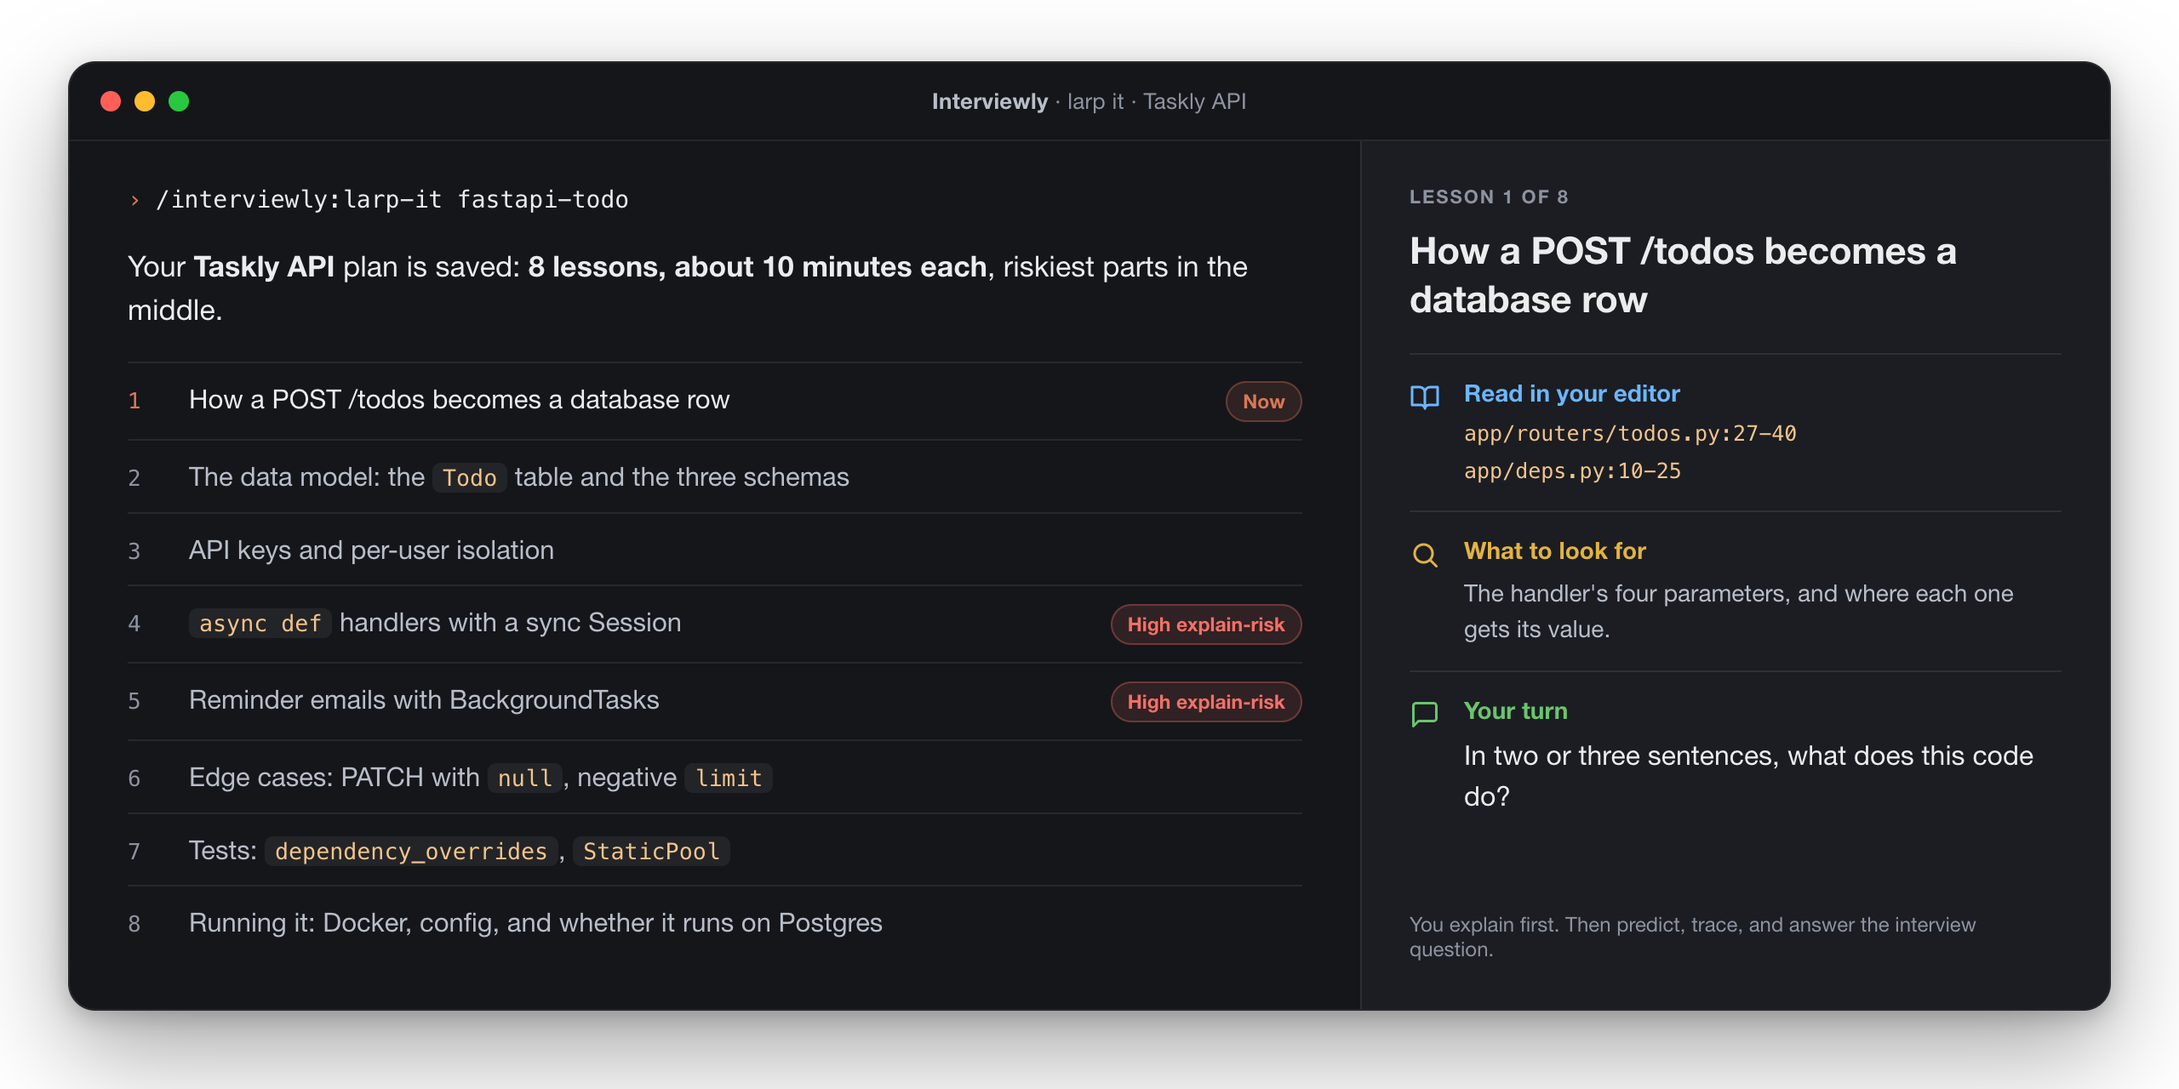
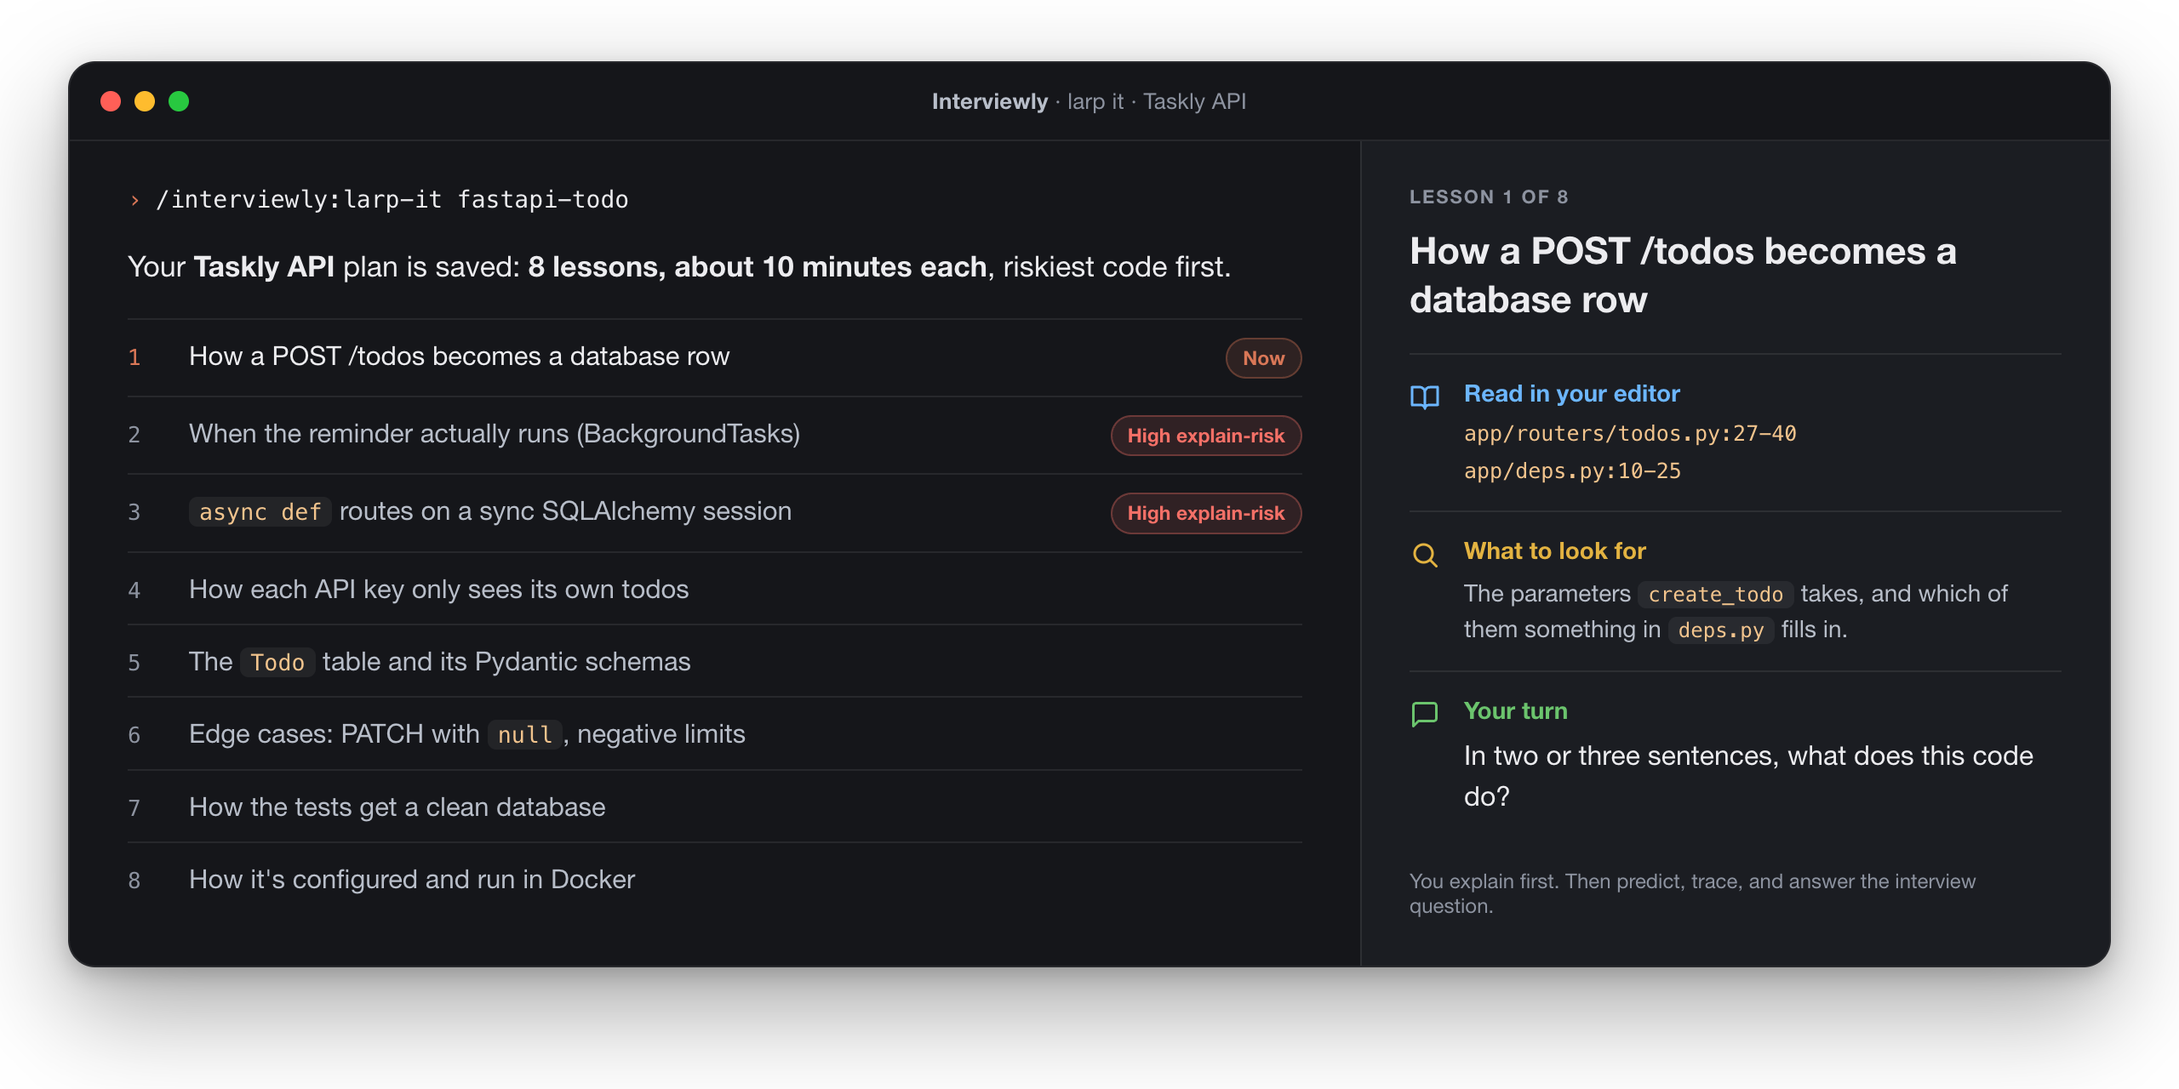
Follow-ups from the 0.10.0 eval run
The full suite ran on the 0.10.0 prompts: 31 of 32 cases passed first time.

- interview resume: one line on which interview is being picked up, and
  nothing about other sessions. The one failing run had offered to review
  a finished session before asking the open question again.
- setup doctor: the skill gives the exact health-check command and stops
  after explaining the report, instead of looking up how the helper is
  called and reading the plugin's own code. The eval takes 5 to 7 turns,
  down from 12 to 14.
- README: the larp-it image is re-rendered from a fresh run, so it shows
  the riskiest lessons straight after the first one.

diff --git a/docs/larp-it-card.html b/docs/larp-it-card.html
@@ -115,16 +115,16 @@
     <div class="body">
       <div class="plan">
         <div class="prompt"><span class="caret">›</span><span class="cmd">/interviewly:larp-it fastapi-todo</span></div>
-        <p class="lead">Your <b>Taskly API</b> plan is saved: <b>8 lessons, about 10 minutes each</b>, riskiest parts in the middle.</p>
+        <p class="lead">Your <b>Taskly API</b> plan is saved: <b>8 lessons, about 10 minutes each</b>, riskiest code first.</p>
         <ol>
           <li class="now"><span class="n">1</span><span>How a POST /todos becomes a database row</span><span class="tag now">Now</span></li>
-          <li><span class="n">2</span><span>The data model: the <code>Todo</code> table and the three schemas</span><span></span></li>
-          <li><span class="n">3</span><span>API keys and per-user isolation</span><span></span></li>
-          <li><span class="n">4</span><span><code>async def</code> handlers with a sync Session</span><span class="tag risk">High explain-risk</span></li>
-          <li><span class="n">5</span><span>Reminder emails with BackgroundTasks</span><span class="tag risk">High explain-risk</span></li>
-          <li><span class="n">6</span><span>Edge cases: PATCH with <code>null</code>, negative <code>limit</code></span><span></span></li>
-          <li><span class="n">7</span><span>Tests: <code>dependency_overrides</code>, <code>StaticPool</code></span><span></span></li>
-          <li><span class="n">8</span><span>Running it: Docker, config, and whether it runs on Postgres</span><span></span></li>
+          <li><span class="n">2</span><span>When the reminder actually runs (BackgroundTasks)</span><span class="tag risk">High explain-risk</span></li>
+          <li><span class="n">3</span><span><code>async def</code> routes on a sync SQLAlchemy session</span><span class="tag risk">High explain-risk</span></li>
+          <li><span class="n">4</span><span>How each API key only sees its own todos</span><span></span></li>
+          <li><span class="n">5</span><span>The <code>Todo</code> table and its Pydantic schemas</span><span></span></li>
+          <li><span class="n">6</span><span>Edge cases: PATCH with <code>null</code>, negative limits</span><span></span></li>
+          <li><span class="n">7</span><span>How the tests get a clean database</span><span></span></li>
+          <li><span class="n">8</span><span>How it's configured and run in Docker</span><span></span></li>
         </ol>
       </div>
 
@@ -144,7 +144,7 @@
           <svg viewBox="0 0 24 24" fill="none" stroke="#e3b341" stroke-width="2" stroke-linecap="round" stroke-linejoin="round"><circle cx="11" cy="11" r="7"/><path d="m21 21-4.3-4.3"/></svg>
           <div>
             <h4>What to look for</h4>
-            <p>The handler's four parameters, and where each one gets its value.</p>
+            <p>The parameters <code>create_todo</code> takes, and which of them something in <code>deps.py</code> fills in.</p>
           </div>
         </div>
 

diff --git a/dist/antigravity/interviewly/skills/setup/SKILL.md b/dist/antigravity/interviewly/skills/setup/SKILL.md
@@ -14,7 +14,7 @@ Arguments: `$ARGUMENTS` (if that appears literally, use what the user asked for)
 1. Run `echo "${INTERVIEWLY_HOME:-$HOME/.interviewly}"` and use the result as `HOME_DIR`. Create it, private to the user: `mkdir -p -m 700 "<HOME_DIR>"`.
 2. Read the parts of `${CLAUDE_PLUGIN_ROOT}/references/state-schema.md` that define the files you'll write: `sed -n '/^## Running in any host/,/^## Layout/p;/^## profile.json/,/^## config.json/p;/^## topics.json/,/^### Spaced-repetition/p' "<that file>"`. (If `${CLAUDE_PLUGIN_ROOT}` wasn't filled in, it's the folder two levels above this SKILL.md.) Follow `${CLAUDE_PLUGIN_ROOT}/references/safety.md`.
 3. If the arguments are `reminder off` or `reminder on`, set `"nudge"` to `false` or `true` in `HOME_DIR/config.json`, confirm in one line, and stop.
-   If the arguments are `doctor`, or the user says Interviewly isn't working, run `iv doctor` and show what it prints in a code block. It holds versions and counts only (no names, paths or CV text), so say it's safe to paste into a bug report. For each line marked `!`, say in one line what it means and how to fix it, and fix what you can yourself (`iv check` names the files behind a failed state check). Point to https://github.com/Im-yusuf/interviewly/blob/main/docs/troubleshooting.md for anything else, and stop. With no Python at all, say that's the problem (item 4) and stop.
+   If the arguments are `doctor`, or the user says Interviewly isn't working, run the health check (it needs step 1 only, not step 2): `INTERVIEWLY_HOME="<HOME_DIR>" python3 "${CLAUDE_PLUGIN_ROOT}/scripts/interviewly.py" doctor` (`python` or `py -3` if there's no `python3`). Show what it prints in a code block. It holds versions and counts only (no names, paths or CV text), so say it's safe to paste into a bug report. For each line marked `!`, say in one line what it means and how to fix it, and fix what you can in `HOME_DIR` yourself (the same script's `check` command names the files behind a failed state check). Don't go on to read or debug the plugin's own code unless the user asks. Point to https://github.com/Im-yusuf/interviewly/blob/main/docs/troubleshooting.md for anything else, and stop. With no Python at all, say that's the problem (item 4) and stop.
 4. Check the tools in one call: `python3 --version; git --version`. No `python3`? Use `python` or `py -3` in its place if either is 3.8+; with neither, say in one line that setup needs Python 3.8+ (python.org) and stop. No git? Read folders in place, skip cloning and who-wrote-what, and say so in one line.
 5. **Quick mode.** If the arguments include `quick` (the start skill sends this), ask the user nothing, except which repos to clone (step 3) when they haven't named them: quick mode skips questions, never consent. If a profile already exists, treat this as "update my CV and add these projects". Infer the target level from the job description and the CV instead of asking. Use only the code sources you were given, without asking about other projects. If only public repos could be listed, say so in the summary rather than asking for private ones. Projects with no code are CV-only. Keep your messages to one line of progress while you work, and skip the summary in step 7: return a three-line summary instead.
    - With `background` (start sends it when the host can run background subagents): do steps 1–5 up to starting the analysts in the background, then return one line naming the dossiers being written. Leave the CV-only dossiers and `profile.json` for `finish`, so a setup that stops halfway isn't mistaken for a finished one.

diff --git a/skills/setup/SKILL.md b/skills/setup/SKILL.md
@@ -15,7 +15,7 @@ Arguments: `$ARGUMENTS` (if that appears literally, use what the user asked for)
 1. Run `echo "${INTERVIEWLY_HOME:-$HOME/.interviewly}"` and use the result as `HOME_DIR`. Create it, private to the user: `mkdir -p -m 700 "<HOME_DIR>"`.
 2. Read the parts of `${CLAUDE_PLUGIN_ROOT}/references/state-schema.md` that define the files you'll write: `sed -n '/^## Running in any host/,/^## Layout/p;/^## profile.json/,/^## config.json/p;/^## topics.json/,/^### Spaced-repetition/p' "<that file>"`. (If `${CLAUDE_PLUGIN_ROOT}` wasn't filled in, it's the folder two levels above this SKILL.md.) Follow `${CLAUDE_PLUGIN_ROOT}/references/safety.md`.
 3. If the arguments are `reminder off` or `reminder on`, set `"nudge"` to `false` or `true` in `HOME_DIR/config.json`, confirm in one line, and stop.
-   If the arguments are `doctor`, or the user says Interviewly isn't working, run `iv doctor` and show what it prints in a code block. It holds versions and counts only (no names, paths or CV text), so say it's safe to paste into a bug report. For each line marked `!`, say in one line what it means and how to fix it, and fix what you can yourself (`iv check` names the files behind a failed state check). Point to https://github.com/Im-yusuf/interviewly/blob/main/docs/troubleshooting.md for anything else, and stop. With no Python at all, say that's the problem (item 4) and stop.
+   If the arguments are `doctor`, or the user says Interviewly isn't working, run the health check (it needs step 1 only, not step 2): `INTERVIEWLY_HOME="<HOME_DIR>" python3 "${CLAUDE_PLUGIN_ROOT}/scripts/interviewly.py" doctor` (`python` or `py -3` if there's no `python3`). Show what it prints in a code block. It holds versions and counts only (no names, paths or CV text), so say it's safe to paste into a bug report. For each line marked `!`, say in one line what it means and how to fix it, and fix what you can in `HOME_DIR` yourself (the same script's `check` command names the files behind a failed state check). Don't go on to read or debug the plugin's own code unless the user asks. Point to https://github.com/Im-yusuf/interviewly/blob/main/docs/troubleshooting.md for anything else, and stop. With no Python at all, say that's the problem (item 4) and stop.
 4. Check the tools in one call: `python3 --version; git --version`. No `python3`? Use `python` or `py -3` in its place if either is 3.8+; with neither, say in one line that setup needs Python 3.8+ (python.org) and stop. No git? Read folders in place, skip cloning and who-wrote-what, and say so in one line.
 5. **Quick mode.** If the arguments include `quick` (the start skill sends this), ask the user nothing, except which repos to clone (step 3) when they haven't named them: quick mode skips questions, never consent. If a profile already exists, treat this as "update my CV and add these projects". Infer the target level from the job description and the CV instead of asking. Use only the code sources you were given, without asking about other projects. If only public repos could be listed, say so in the summary rather than asking for private ones. Projects with no code are CV-only. Keep your messages to one line of progress while you work, and skip the summary in step 7: return a three-line summary instead.
    - With `background` (start sends it when the host can run background subagents): do steps 1–5 up to starting the analysts in the background, then return one line naming the dossiers being written. Leave the CV-only dossiers and `profile.json` for `finish`, so a setup that stops halfway isn't mistaken for a finished one.

diff --git a/CHANGELOG.md b/CHANGELOG.md
@@ -10,7 +10,7 @@ All notable changes to Interviewly. Versions follow [semantic versioning](https:
 - **A clearer README.** The install commands are at the top, generic questions sit next to the ones Interviewly asks about the sample projects, commands are grouped by what you're doing, and the report card from a sample interview is included.
 - **Listing details.** The plugin manifest has a display name, icon, and documentation, support and privacy links, and the marketplace entry has tags.
 - **A faster first answer.** `/interviewly:start` shows your likely questions before it starts on your code, not after. `/interviewly:target` asks for the interview date before it researches the company, so "no research" can still be said and the slow part runs without a stop. A new user who types `/interviewly:setup` is taken through start.
-- **Sharper practice.** Fundamentals questions ask one thing at a time. After a coach-mode lesson you're told whether your retry was right. A drill no longer supplies a "correct answer" for work only you know about. Walkthrough length and "I" versus "we" are counted exactly (`iv count`) instead of estimated. An interview on a technology defaults to fundamentals, and the interviewer won't invent facts about a real company when you ask it questions.
+- **Sharper practice.** Fundamentals questions ask one thing at a time. After a coach-mode lesson you're told whether your retry was right. A drill no longer supplies a "correct answer" for work only you know about. Walkthrough length and "I" versus "we" are counted exactly (`iv count`) instead of estimated. An interview on a technology defaults to fundamentals, and the interviewer won't invent facts about a real company when you ask it questions. Resuming a paused interview goes straight back to it, without bringing up your other sessions.
 - **Learning your code.** A larp-it plan puts the riskiest code straight after the first lesson, `larp-it next` carries on with the plan you're part-way through, each message gives feedback and then one question, and the score recorded is the interview check's.
 - **CV work.** The audit no longer rates a plain line about work it can't see as risky. The CV rewrite asks its one question in plain text and waits, reuses what you answered for an earlier version, and "practise the claims I kept" practises the claims that are in the new CV. Rechecking a few lines keeps the audit's overview of the projects it didn't recheck.
 - **After an interview.** Debrief doesn't ask again for what you've already said, and "practise the weak ones" practises those questions.

diff --git a/dist/antigravity/interviewly/skills/interview/SKILL.md b/dist/antigravity/interviewly/skills/interview/SKILL.md
@@ -16,7 +16,7 @@ Arguments: `$ARGUMENTS` (if that appears literally, use what the user asked for)
    Otherwise, if `HOME_DIR/profile.json` doesn't exist, run the `interviewly:start` skill instead, telling it the user wants a practice interview (and these arguments). Start gets them practising within a minute and builds the profile in the background.
 3. Read: `profile.json`, `config.json`, `projects/index.json`, `targets/<active_target>.md` if one is set, plus the mode-specific files listed in step 2. Don't read `topics.json` itself: `iv due` (step 2) gives you the topics you need, and `grep -o '"id": "[^"]*"' HOME_DIR/topics.json` lists every existing id if you want to reuse one.
 4. Read `${CLAUDE_PLUGIN_ROOT}/references/personas.md` and `${CLAUDE_PLUGIN_ROOT}/references/follow-up-ladder.md`, plus `${CLAUDE_PLUGIN_ROOT}/references/rubric.md` when the feedback is coach (`each`).
-5. **Resume:** `resume` or `continue` in the arguments means a paused interview. (If the user means their résumé, the CV, run the `interviewly:audit` or `interviewly:cv` skill instead.) Find the newest interview session in `HOME_DIR/sessions/` with `status: paused` or `in-progress`: its `mode` is deep-dive, fundamentals, behavioral, system-design, claims or mixed, never a drill, lesson or walkthrough. Read it. If its last question has no answer yet, ask that question again first, in the interviewer's voice. Then carry on with the next topic in its `plan` (plan the rest only if it has none). Don't skip a planned topic because another session covered it: the user paused this one. Skip step 1.
+5. **Resume:** `resume` or `continue` in the arguments means a paused interview. (If the user means their résumé, the CV, run the `interviewly:audit` or `interviewly:cv` skill instead.) Find the newest interview session in `HOME_DIR/sessions/` with `status: paused` or `in-progress`: its `mode` is deep-dive, fundamentals, behavioral, system-design, claims or mixed, never a drill, lesson or walkthrough. Read it. Tell the user in one line which interview you're picking up, and leave other sessions out of it: no offer to score or review them. If its last question has no answer yet, ask that question again first, in the interviewer's voice. Then carry on with the next topic in its `plan` (plan the rest only if it has none). Don't skip a planned topic because another session covered it: the user paused this one. Skip step 1.
 
 ## 1. Settings
 

diff --git a/skills/interview/SKILL.md b/skills/interview/SKILL.md
@@ -17,7 +17,7 @@ Arguments: `$ARGUMENTS` (if that appears literally, use what the user asked for)
    Otherwise, if `HOME_DIR/profile.json` doesn't exist, run the `interviewly:start` skill instead, telling it the user wants a practice interview (and these arguments). Start gets them practising within a minute and builds the profile in the background.
 3. Read: `profile.json`, `config.json`, `projects/index.json`, `targets/<active_target>.md` if one is set, plus the mode-specific files listed in step 2. Don't read `topics.json` itself: `iv due` (step 2) gives you the topics you need, and `grep -o '"id": "[^"]*"' HOME_DIR/topics.json` lists every existing id if you want to reuse one.
 4. Read `${CLAUDE_PLUGIN_ROOT}/references/personas.md` and `${CLAUDE_PLUGIN_ROOT}/references/follow-up-ladder.md`, plus `${CLAUDE_PLUGIN_ROOT}/references/rubric.md` when the feedback is coach (`each`).
-5. **Resume:** `resume` or `continue` in the arguments means a paused interview. (If the user means their résumé, the CV, run the `interviewly:audit` or `interviewly:cv` skill instead.) Find the newest interview session in `HOME_DIR/sessions/` with `status: paused` or `in-progress`: its `mode` is deep-dive, fundamentals, behavioral, system-design, claims or mixed, never a drill, lesson or walkthrough. Read it. If its last question has no answer yet, ask that question again first, in the interviewer's voice. Then carry on with the next topic in its `plan` (plan the rest only if it has none). Don't skip a planned topic because another session covered it: the user paused this one. Skip step 1.
+5. **Resume:** `resume` or `continue` in the arguments means a paused interview. (If the user means their résumé, the CV, run the `interviewly:audit` or `interviewly:cv` skill instead.) Find the newest interview session in `HOME_DIR/sessions/` with `status: paused` or `in-progress`: its `mode` is deep-dive, fundamentals, behavioral, system-design, claims or mixed, never a drill, lesson or walkthrough. Read it. Tell the user in one line which interview you're picking up, and leave other sessions out of it: no offer to score or review them. If its last question has no answer yet, ask that question again first, in the interviewer's voice. Then carry on with the next topic in its `plan` (plan the rest only if it has none). Don't skip a planned topic because another session covered it: the user paused this one. Skip step 1.
 
 ## 1. Settings
 

diff --git a/README.md b/README.md
@@ -62,7 +62,7 @@ You shipped it with Claude, Cursor or Copilot. It works, it's on your CV, and yo
 `/interviewly:larp-it` turns your project into 10-minute lessons, riskiest code first. Read a little. Explain it back in your own words. Predict what breaks. Answer the question the interviewer will ask. Lesson by lesson, it becomes your code.
 
 <p align="center">
-  <img src="docs/larp-it.png" width="100%" alt="Rendered from real output on the sample project: /interviewly:larp-it fastapi-todo saves an 8-lesson plan for the Taskly API, with the async def handlers and the BackgroundTasks reminders marked as high explain-risk. Lesson 1 points at app/routers/todos.py:27-40 and app/deps.py:10-25, says what to look for, and asks the user to explain the code in two or three sentences.">
+  <img src="docs/larp-it.png" width="100%" alt="Rendered from real output on the sample project: /interviewly:larp-it fastapi-todo saves an 8-lesson plan for the Taskly API, riskiest code first: after the opening lesson come the BackgroundTasks reminders and the async def routes, both marked as high explain-risk. Lesson 1 points at app/routers/todos.py:27-40 and app/deps.py:10-25, says what to look for, and asks the user to explain the code in two or three sentences.">
 </p>
 
 - **Find the parts you can't explain yet.** It reads your git history (AI co-author tags, files like `CLAUDE.md` or `.cursorrules`) and flags the code you'd struggle to explain. You confirm what's yours.
